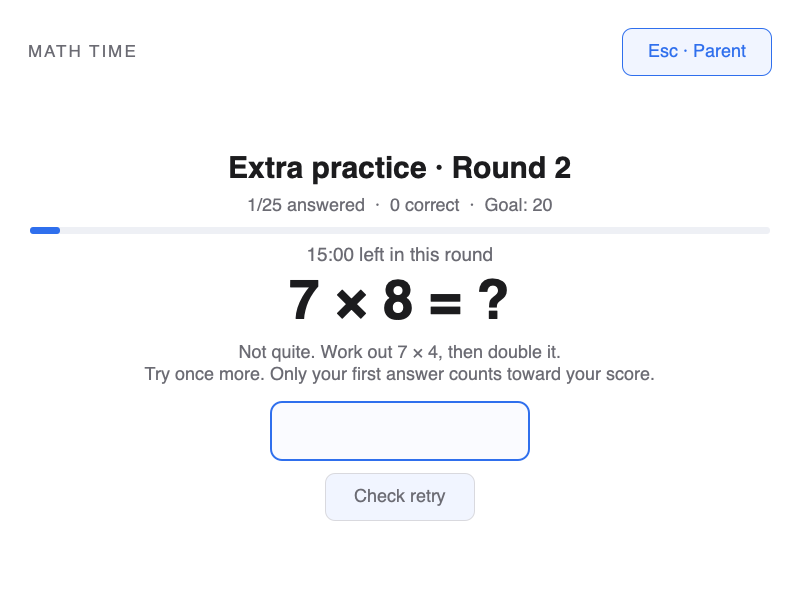
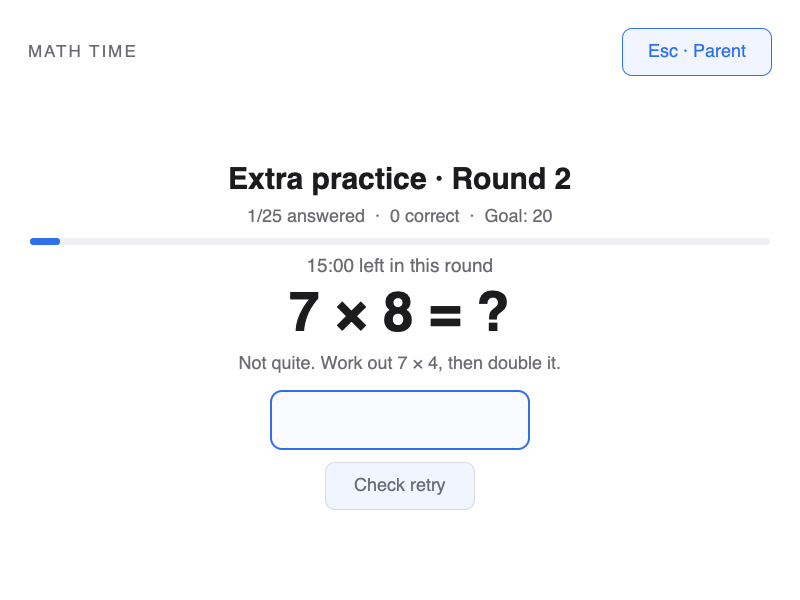
Remove scoring explanation from guided math retries

Changed region(s): [[0.1875, 0.24, 0.8125, 0.69], [0.3438, 0.72, 0.6562, 0.87], [0.0312, 0.36, 0.0938, 0.42]]

diff --git a/PracticeSheet.qml b/PracticeSheet.qml
@@ -163,7 +163,7 @@ Rectangle {
       width: parent.width
       text: sheet.reviewing ? "Let's remember this fact. Choose Continue when you're ready."
         : sheet.state.question && sheet.state.question.hint
-          ? sheet.state.question.hint + "\nTry once more. Only your first answer counts toward your score."
+          ? sheet.state.question.hint
           : ""
       textFormat: Text.PlainText
       color: Model.PALETTE.inkSoft
